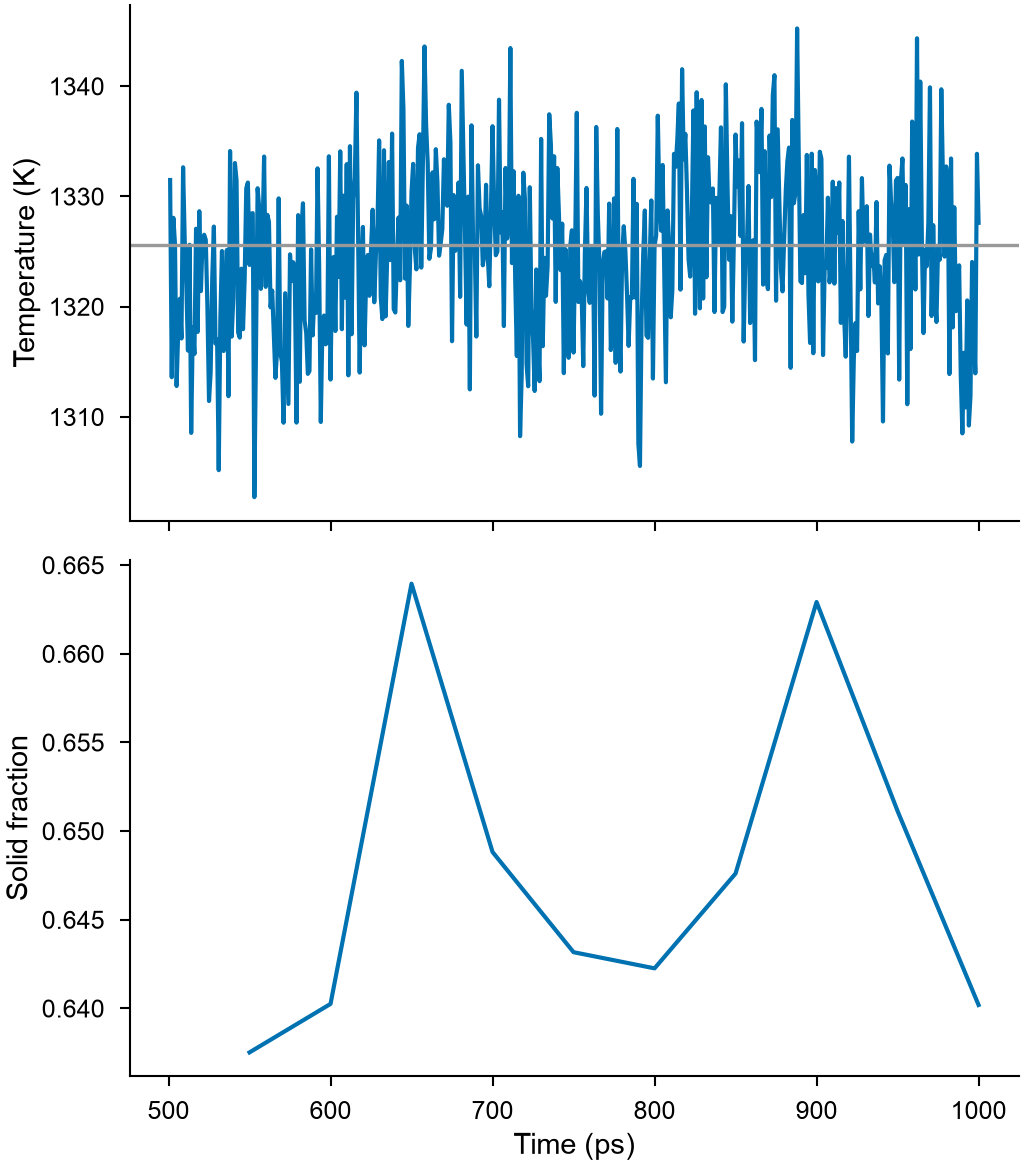
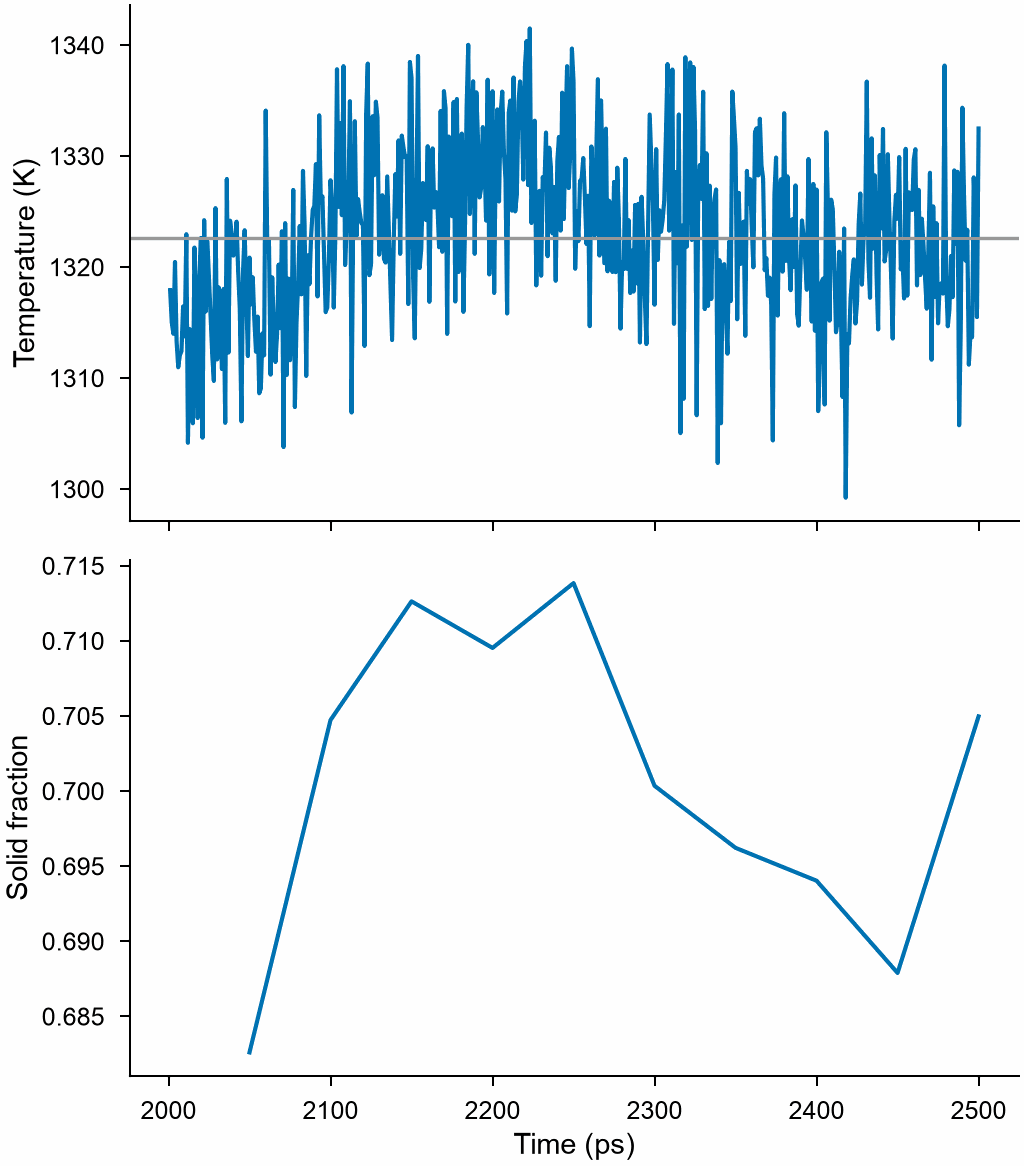
The melting-point page: the example run and its picture with the rule of two stretches that agree

diff --git a/docs/user-guide/simulation/melting-point.md b/docs/user-guide/simulation/melting-point.md
@@ -20,7 +20,7 @@ crystal = minimize(
 ).system
 
 result = melting_point(crystal, potential, 1000.0)
-result.temperature, result.error  # 1326 K, 1 K
+result.temperature, result.error  # 1323 K, 0.7 K
 result.attempts  # how the search went
 ```
 
@@ -44,7 +44,8 @@ with plot.style():
 ![The two phases reaching their common temperature](images/melting-point.png)
 
 *Copper with the EAM potential of Mishin et al., 16456 atoms, from a guess of 1000 K. The
-runs from 1000 and 1150 K froze, and the one from 1322 K kept both phases and gave 1326 K.
+runs from 1000 and 1150 K froze, and the one from 1322 K kept both phases; its fifth stretch
+agreed with the fourth and gave 1323 K.
 Here is its last stretch.*
 
 The crystal is repeated to about `num_atoms` atoms in a box three times as long along its

diff --git a/docs/about/release-notes.md b/docs/about/release-notes.md
@@ -17,6 +17,11 @@
   [Elastic constants](../user-guide/simulation/elastic-constants.md#along-directions) and
   the example [Elastic anisotropy of copper and titanium](../examples/elastic-anisotropy.md).
 - `plot.panel_label` labels axes in 3D too; it raised `TypeError` there.
+- `melting_point` takes a run as the answer only when the mean temperatures of its last two
+  stretches of coexistence agree, within `tolerance` or twice their statistical error, besides
+  the drift within the last. Before, one stretch could pass while the temperature still rose:
+  for copper from guesses of 1000, 1327 and 1700 K the answers spread by 4 to 17 K, now by 1
+  to 7 K. `error` is the statistical error of one run, smaller than that spread.
 
 ## 2.0.0
 
